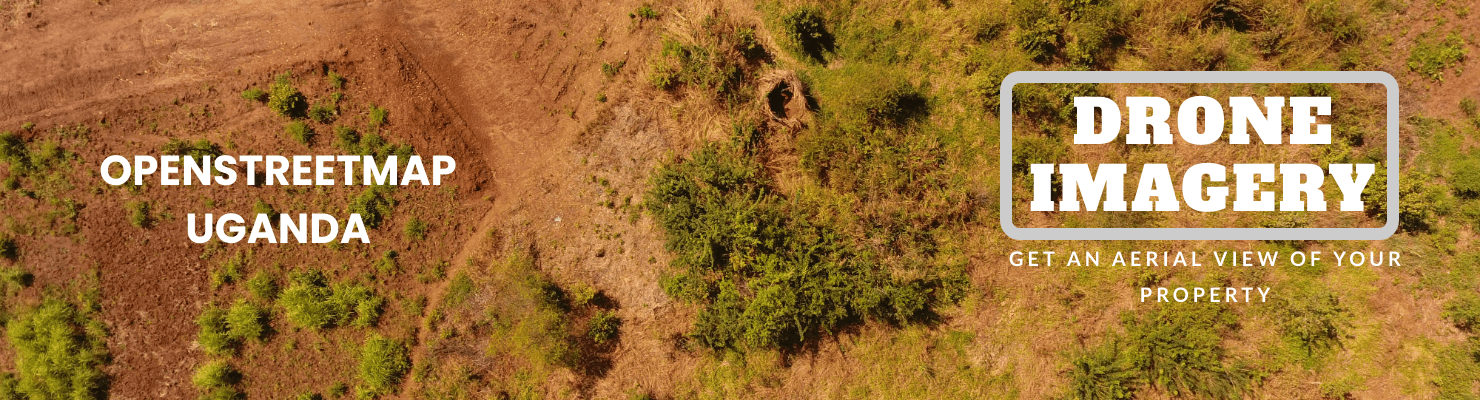
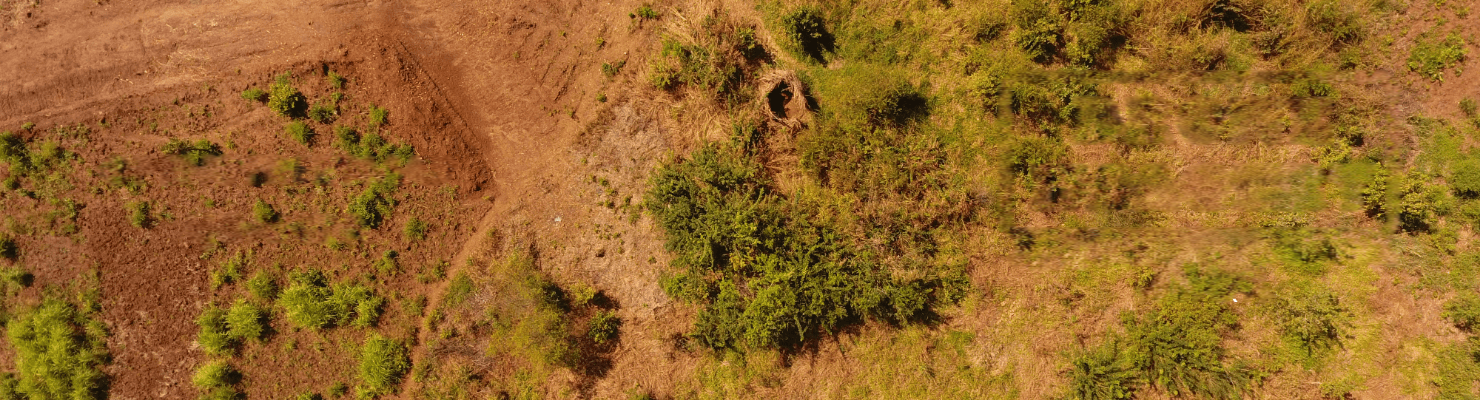
updates

diff --git a/index.html b/index.html
@@ -106,9 +106,14 @@
       <div class="page-banner parallax" style="background-image:url(images/upgrade1.png);">
           <div class="container">
               <div class="page-banner-text">
-              <!--<h1 style="color:white">OPENSTREETMAP UGANDA</h1>-->
+                <p><b>
+              <h1 style="color:white;">OPENSTREETMAP</h1>
+            </b></p>
+            <p><b>
+              <h1 style="color:white; padding-left:70px;">UGANDA</h1>
+            </b></p>
                 </div>
-            </div>
+            </div> 
         </div>
     </div>
         <!-- End Hero Slider -->
@@ -130,7 +135,7 @@
                         </div>
                         <div class="col-md-8 col-sm-8">
 
-                          <div class="carousel-wrapper">
+                          <div align="center" class="carousel-wrapper">
                         <ul class="owl-carousel carousel-fw" id="carousel-slider" data-columns="1" data-autoplay="2000" data-pagination="no" data-arrows="yes" data-single-item="no" data-items-desktop="1" data-items-desktop-small="2" data-items-tablet="1" data-items-mobile="1">
                            <li class="item">
                                         <img src="images/amudat.png" alt="AMUDAT" class="img-responsive">
@@ -159,9 +164,6 @@
                                         <img src="images/ron.png" alt="pic" class="img-responsive">
                             </li>
                             <li class="item">
-                                        <img src="images/p007.png" alt="picture" class="img-responsive">
-                            </li>
-                            <li class="item">
                                         <img src="images/Buikwe.png" alt="Buikwe" class="img-responsive">
                             </li>
                             <li class="item">
@@ -174,11 +176,11 @@
                                         <img src="images/20201130_122613.jpg" alt="map" class="img-responsive">
                             </li>
                             <li class="item">
-                                        <img src="images/20201130_122617.jpg" alt="map" class="img-responsive">
-                            </li>
-                            <li class="item">
                                         <img src="images/csk.jpg" alt="CSK" class="img-responsive">
                             </li>
+                          </ul>
+                            </div>
+                          </div>
 
 <!--<div class="slideshow-container">
         <div class="mySlides fade">
@@ -211,45 +213,48 @@
           <img src="images/Kitgum Orthomap.png" alt="slide1" width="100%" height="350">
           <div class="text">Caption Text</div>
         </div>-->
-      </div>
+      
       <br>
       <div style="text-align:center; background-color: transparent;"> <span class="dot"></span> <span class="dot"></span> <span class="dot"></span> </div>
     </div>
 </div>
 <br>
-         <center> <div class="row" style="display: inline-flex; backface-visibility: all;">
-    <div class="col-md-3 col-sm-3">
-      <div class="counter"> <i class="fa fa-users fa-2x"></i>
-        <h2 class="timer count-title count-number" data-to="98" data-speed="1500"></h2>
-        <p class="count-text ">Community Members</p>
+<div class="container-fluid">
+         <center> <div class="row" style="display: inline-flex;">
+    <div class="col-md-3 col-sm-3" style="background-color: #0066FF;">
+      <div class="counter" style="background-color: #0066FF"> <i class="fa fa-users fa-2x"></i>
+        <h2 class="timer count-title count-number" data-to="98" data-speed="1500" style="color: white"></h2>
+        <p class="count-text" style="color: white">Community Members</p>
       </div>
     </div>
-    <div class="col-md-3 col-sm-3">
-      <div class="counter"> <i class="fa fa-university fa-2x"></i>
-        <h2 class="timer count-title count-number" data-to="10" data-speed="1500"></h2>
-        <p class="count-text ">Government Institutions Trained</p>
+    <div class="col-md-3 col-sm-3" style="background-color: #0066FF;">
+      <div class="counter" style="background-color: #0066FF"> <i class="fa fa-university fa-2x"></i>
+        <h2 class="timer count-title count-number" data-to="10" data-speed="1500" style="color: white"></h2>
+        <p class="count-text" style="color: white">Government Institutions Trained</p>
       </div>
     </div>
-    <div class="col-md-3 col-sm-3">
-      <div class="counter"> <i class="fa fa-book fa-2x"></i>
-        <h2 class="timer count-title count-number" data-to="16" data-speed="1500"></h2>
-        <p class="count-text ">NGOs Trained</p>
+    <div class="col-md-3 col-sm-3" style="background-color: #0066FF;">
+      <div class="counter" style="background-color: #0066FF"> <i class="fa fa-book fa-2x"></i>
+        <h2 class="timer count-title count-number" data-to="16" data-speed="1500" style="color: white"></h2>
+        <p class="count-text" style="color: white">NGOs Trained</p>
       </div>
     </div>
-    <div class="col-md-3 col-sm-3">
-      <div class="counter"> <i class="fa fa-lightbulb-o fa-2x"></i>
-        <h2 class="timer count-title count-number" data-to="26" data-speed="1500"></h2>
-        <p class="count-text ">Mapping Projects Completed</p>
+    <div class="col-md-3 col-sm-3" style="background-color: #0066FF;">
+      <div class="counter" style="background-color: #0066FF"> <i class="fa fa-lightbulb-o fa-2x"></i>
+        <h2 class="timer count-title count-number" data-to="26" data-speed="1500" style="color: white"></h2>
+        <p class="count-text" style="color: white">Mapping Projects Completed</p>
       </div>
     </div>
-    <div class="col-md-3 col-sm-3">
-      <div class="counter"> <i class="fa fa-university fa-2x"></i>
-        <h2 class="timer count-title count-number" data-to="70" data-speed="1500"></h2>
-        <p class="count-text ">OpenStreetMap/GISTrainings Held</p>
+    <div class="col-md-3 col-sm-3" style="background-color: #0066FF;">
+      <div class="counter" style="background-color: #0066FF"> <i class="fa fa-university fa-2x"></i>
+        <h2 class="timer count-title count-number" data-to="70" data-speed="1500" style="color: white"></h2>
+        <p class="count-text" style="color: white">OpenStreetMap/GISTrainings Held</p>
       </div>
     </div>
   </div>
-</center> </div>             
+</center> </div> 
+<div>
+<br>            
             <div class="carousel-wrapper" style="padding-left: 30px;">
                         <div class="row">
                             <ul class="owl-carousel carousel-fw" id="causes-slider" data-columns="2" data-autoplay="" data-pagination="no" data-arrows="yes" data-single-item="no" data-items-desktop="2" data-items-desktop-small="2" data-items-tablet="2" data-items-mobile="1">
@@ -299,9 +304,28 @@
                       <center><h3>Average Distance Walked to School</h3></center>
                       <iframe width="100%" height="520" frameborder="0" src="https://kiggudde.carto.com/builder/6ca28405-e8de-4156-b7fb-4b2ed1bd35f2/embed/" allowfullscreen webkitallowfullscreen mozallowfullscreen oallowfullscreen msallowfullscreen></iframe>
                     </div>
-             </div>      
-             <div>
-                <img src="images/banner4.png" alt="banner">
+             </div>     
+             <div class="container-fluid">
+              <div class="row">
+                <div class="col-md-2 col-sm-2"><br>
+                  <h3 style="color:white;border: 5px solid white;">Upcoming Events</h3>
+                 <strong> <span class="event-date">
+                                            <span class="month">Feb</span>
+                                            <span class="year">2021</span>
+                  </span></strong>
+                  <br><br><br>
+                  <h3 align="center" style="color:white;">GIS TRAINING</h3>
+                  <h5 align="center" style="color:white;">QGIS and Open Source Tools</h5>
+                </div>
+                <div class="col-md-6 col-sm-6">
+                  <h3 align="border-right" style="color: #0066FF;border-right: 5px solid white; padding-top: 180px">1</h3>
+                </div>
+                <div class="col-md-4 col-sm-4">
+                  <h2 style="color:white">Our Vision</h2>
+                            <p style="color:white">To have a greater capacity for open data, open source, and applying these principles to assist organizations, individuals locally and internationally to manage and solve social, economic and community challenges.</p>
+                            <center><h3 style="color:white">We offer GIS training and support to organizations, companies and individuals</h3></center>
+                </div>
+              </div>
              </div>           
             <!--<div class="padding-tb75 position-relative bgcolor" style="padding-left: 30px;padding-right: 30px;background-color: black">
             	
@@ -769,10 +793,13 @@
             <div class="spacer-30"></div>
 
              <div class="hero-area">
-      <div class="page-banner parallax" style="background-image:url(images/foot.png);">
+      <div class="page-banner parallax" style="background-image:url(images/seeta.jpg);">
           <div class="container">
               <div class="page-banner-text">
-              <!--<h1 style="color:white">OPENSTREETMAP UGANDA</h1>-->
+              <h1 style="color:white;" >Contact Us</h1>
+              <strong><h3 style="color:white;">Email: kigguddedeogratias@gmail.com</h3></strong>
+              <strong><h3 style="color:white; padding-bottom: 80px">Phone Number: +256775466081/+256703143225</h3></strong>
+                </div>
                 </div>
             </div>
         </div>

diff --git a/css/style.css b/css/style.css
@@ -4146,3 +4146,7 @@ only screen and (                min-resolution: 2dppx) {
 		display:block;
 	}
 }
+/*background colour for container fluid for counter*/
+.container-fluid{
+	background-color: #0066FF;
+}
